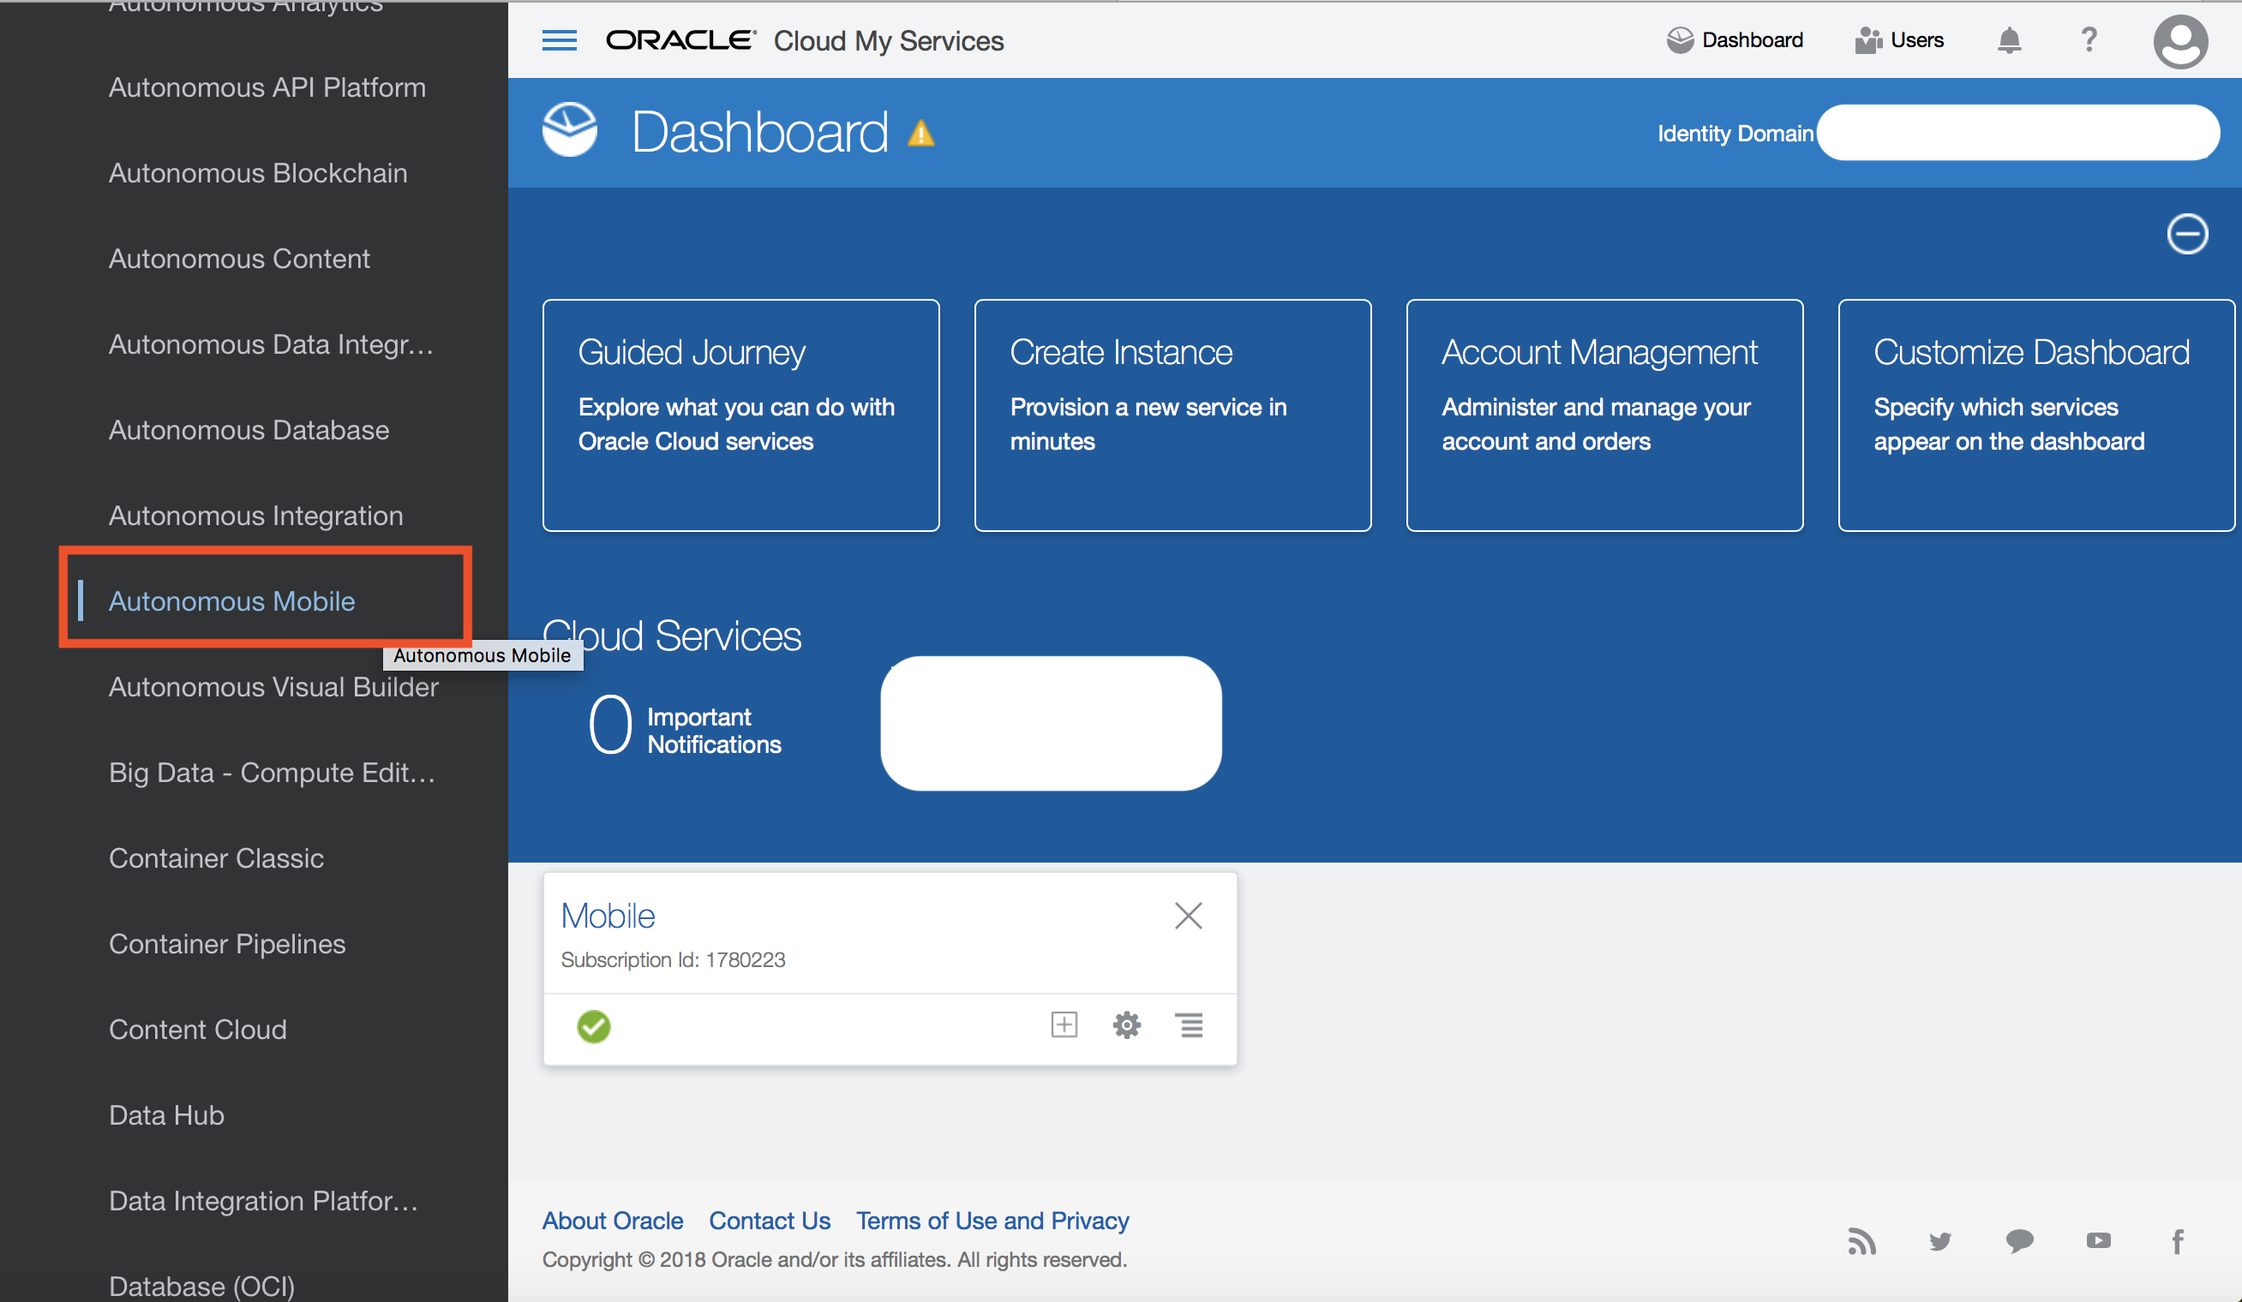
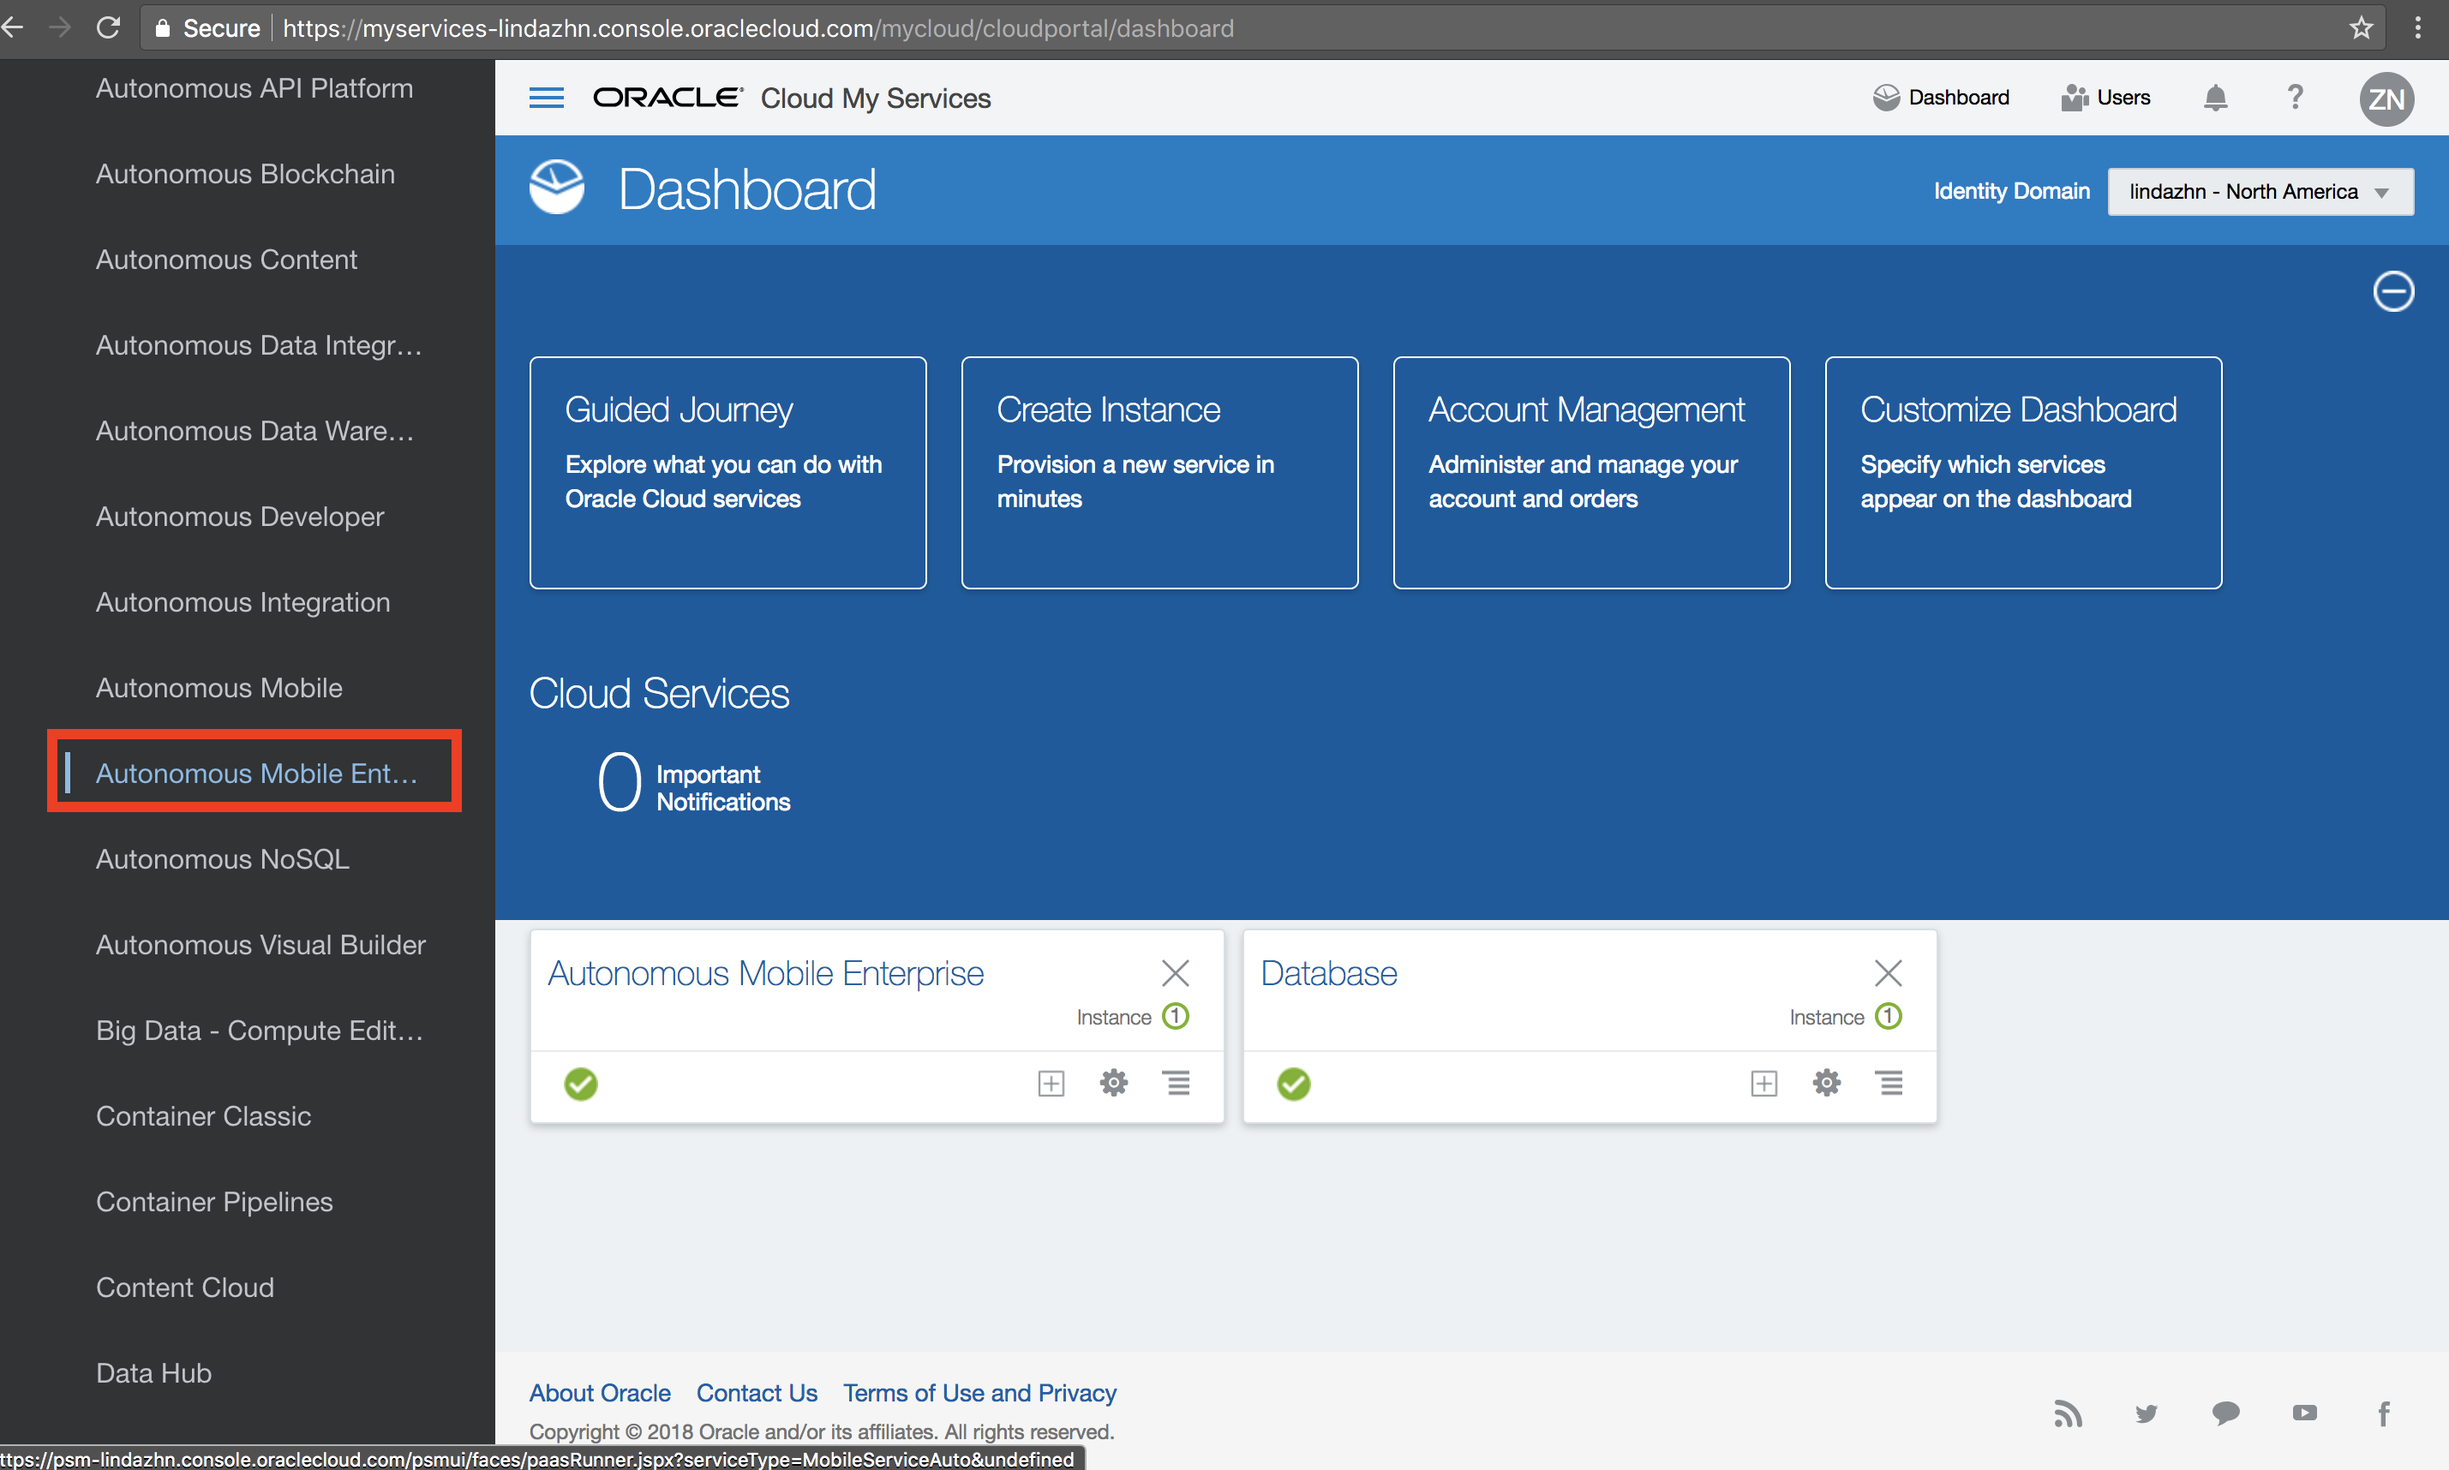
[Lab 100] Updated lab 100.

Changed region(s): [[0.0, 0.0, 1.0, 1.0], [0.8979, 0.9276, 0.9599, 0.9895], [0.836, 0.9586, 0.867, 0.9895]]

diff --git a/Lab100.md b/Lab100.md
@@ -40,7 +40,7 @@ This lab walks you through the steps to explore AMCe Intelligent Bot UI, import 
 
 ![](./images/100/15.png)
 
-- Scroll down and find **Autonomous Mobile** and click on it.
+- Scroll down and find **Autonomous Mobile Enterprise** and click on it.
 
 ![](./images/100/14.png)
 
